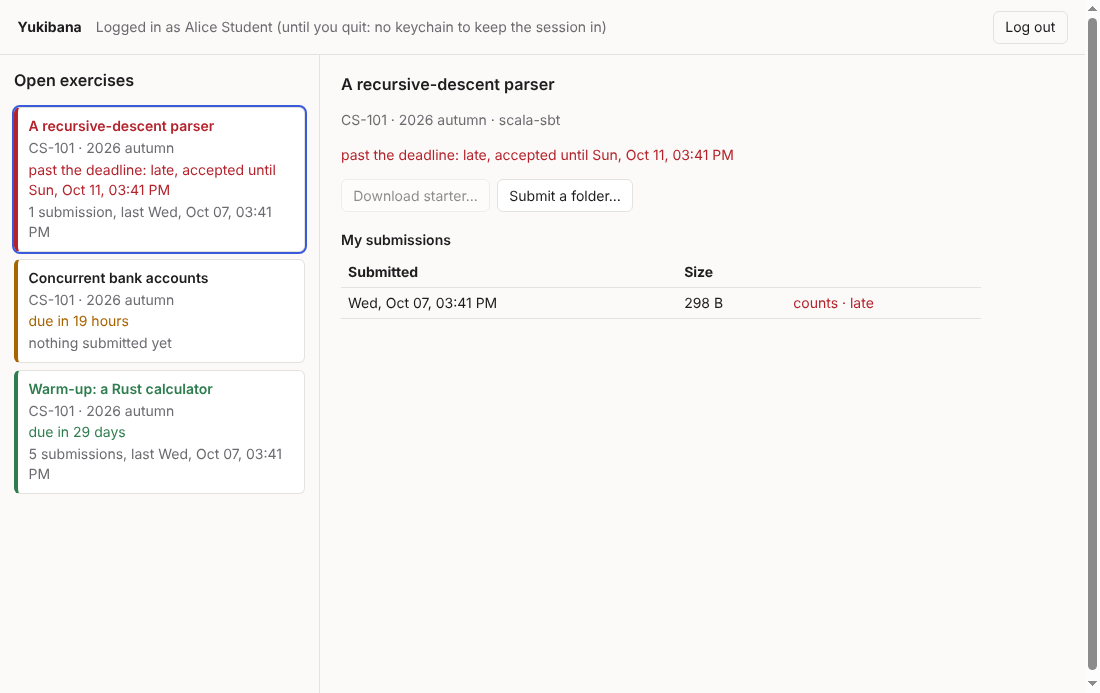
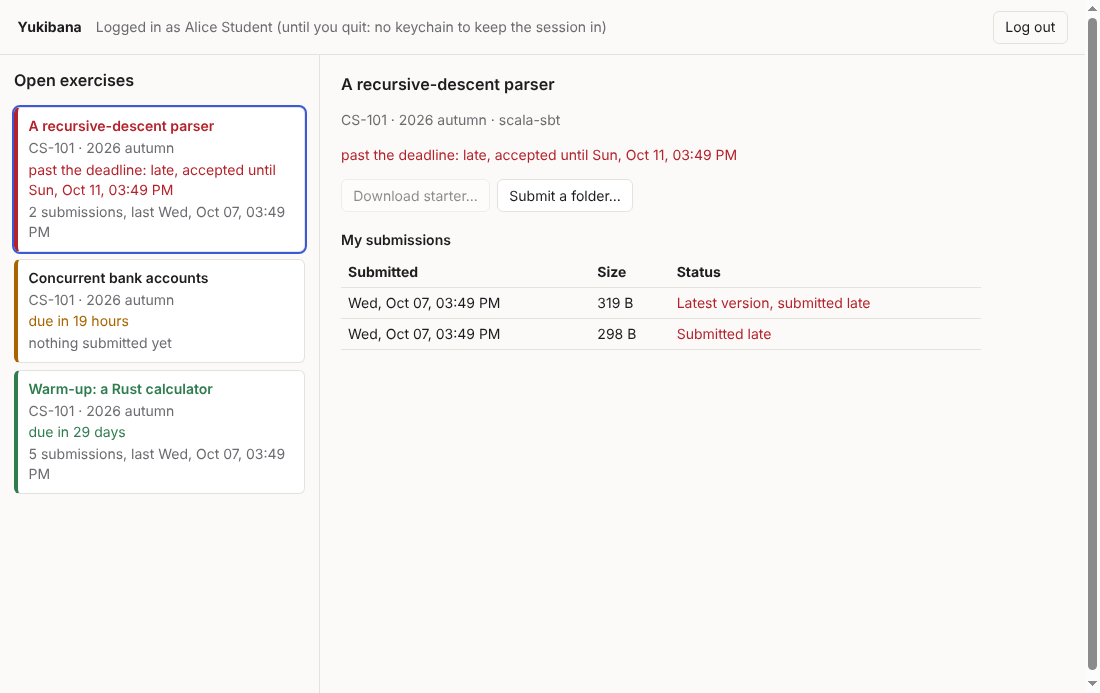
Say "Latest version" and "Submitted late" in the demo's submission list
The status column read "counts · late". It now says "Latest version",
"Submitted late" or "Latest version, submitted late", under a Status
heading, and the confirmation after sending says the latest version is
the one that will be assessed. Screenshots retaken.

Claude-Session: https://claude.ai/code/session_014xGnNy355ug7qgHPRUqkQe

diff --git a/demo/electron/src/renderer.ts b/demo/electron/src/renderer.ts
@@ -164,10 +164,10 @@ async function renderDetail(into: HTMLElement): Promise<void> {
     subs.replaceChildren(rows.length === 0
       ? el('p', { class: 'muted' }, 'Nothing submitted yet.')
       : el('table', {},
-        el('thead', {}, el('tr', {}, ...(p.role === 'student' ? [] : [el('th', {}, 'Student')]), el('th', {}, 'Submitted'), el('th', {}, 'Size'), el('th', {}, ''))),
+        el('thead', {}, el('tr', {}, ...(p.role === 'student' ? [] : [el('th', {}, 'Student')]), el('th', {}, 'Submitted'), el('th', {}, 'Size'), el('th', {}, 'Status'))),
         el('tbody', {}, ...rows.map((r) => el('tr', {},
           ...(p.role === 'student' ? [] : [el('td', {}, r.author)]),
-          el('td', {}, r.when), el('td', {}, r.size), el('td', { class: r.tags.includes('late') ? 'late' : '' }, r.tags)))),
+          el('td', {}, r.when), el('td', {}, r.size), el('td', { class: r.late ? 'late' : '' }, r.status)))),
       ));
   } catch (e) {
     subs.replaceChildren(el('p', { class: 'error' }, errorText(e)));
@@ -203,7 +203,7 @@ function previewPane(b: BundlePreview, p: Project, rerender: () => void): HTMLEl
         onclick: () => void api.submit(b.bundleId, p.projectId).then(async (accepted) => {
           state.preview = null;
           state.shown = null;
-          say('ok', `Submitted (${bytes(accepted.byteSize)}). Your newest submission is the one that counts.`);
+          say('ok', `Submission received (${bytes(accepted.byteSize)}). Your latest version is the one that will be assessed.`);
           await loadExercises();
           rerender();
         }, (e: unknown) => { say('error', errorText(e)); rerender(); }),

diff --git a/demo/electron/src/view.ts b/demo/electron/src/view.ts
@@ -87,9 +87,18 @@ export interface SubmissionRow {
   readonly submissionId: string;
   readonly when: string;
   readonly size: string;
-  /** "counts", "late", "counts · late", or "" for an older version. */
-  readonly tags: string;
+  /** "Latest version", "Submitted late", "Latest version, submitted late",
+   *  or "" for an earlier version that was on time. */
+  readonly status: string;
+  /** Whether it arrived after the deadline, for the colour. */
+  readonly late: boolean;
   readonly author: string;
+}
+
+function statusOf(latest: boolean, late: boolean): string {
+  if (latest && late) return 'Latest version, submitted late';
+  if (latest) return 'Latest version';
+  return late ? 'Submitted late' : '';
 }
 
 export function bytes(n: number): string {
@@ -98,14 +107,15 @@ export function bytes(n: number): string {
   return `${(n / 1024 / 1024).toFixed(1)} MiB`;
 }
 
-/** The submission list, newest first as the registry sends it. The newest
- *  of each author is the one that counts. */
+/** The submission list, newest first as the registry sends it. The latest
+ *  version of each author is the one that is assessed. */
 export function submissionRows(subs: readonly Submission[], locale?: string): SubmissionRow[] {
   return subs.map((s) => ({
     submissionId: s.submissionId,
     when: shortDate(s.submittedAt, locale),
     size: bytes(s.byteSize),
-    tags: [s.latest ? 'counts' : '', s.late ? 'late' : ''].filter(Boolean).join(' · '),
+    status: statusOf(s.latest, s.late),
+    late: s.late,
     author: s.author.fullName ?? s.author.githubLogin ?? s.author.email ?? s.author.userId,
   }));
 }

diff --git a/demo/electron/tests/view.test.ts b/demo/electron/tests/view.test.ts
@@ -44,13 +44,14 @@ test('a student\'s card counts their submissions; staff see their role instead',
   assert.equal(staff?.mine, 'you are owner');
 });
 
-test('the newest submission is the one that counts, and late ones say so', () => {
+test('the latest version is marked as such, and late ones say so', () => {
   const sub = (id: string, latest: boolean, late: boolean): Submission => ({
     submissionId: id, projectId: 'p', submittedAt: iso(-H), byteSize: 2048, sha256: 'ab', latest, late,
     author: { userId: 'u', fullName: null, githubLogin: 'ada', email: null },
   });
-  const rows = submissionRows([sub('b', true, true), sub('a', false, false)]);
-  assert.deepEqual(rows.map((r) => r.tags), ['counts · late', '']);
+  const rows = submissionRows([sub('c', true, true), sub('b', false, true), sub('a', false, false)]);
+  assert.deepEqual(rows.map((r) => r.status), ['Latest version, submitted late', 'Submitted late', '']);
+  assert.deepEqual(rows.map((r) => r.late), [true, true, false]);
   assert.equal(rows[0]?.size, '2.0 KiB');
   assert.equal(rows[0]?.author, 'ada');
 });
